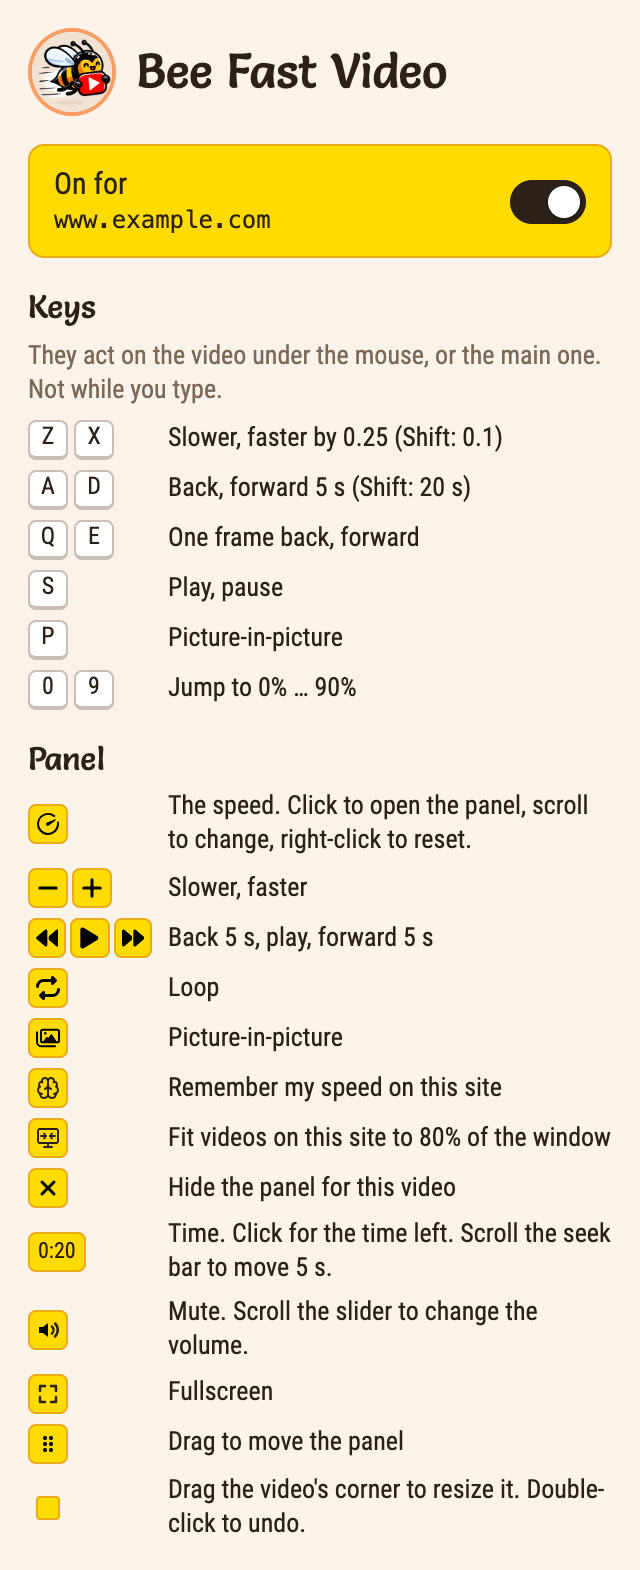
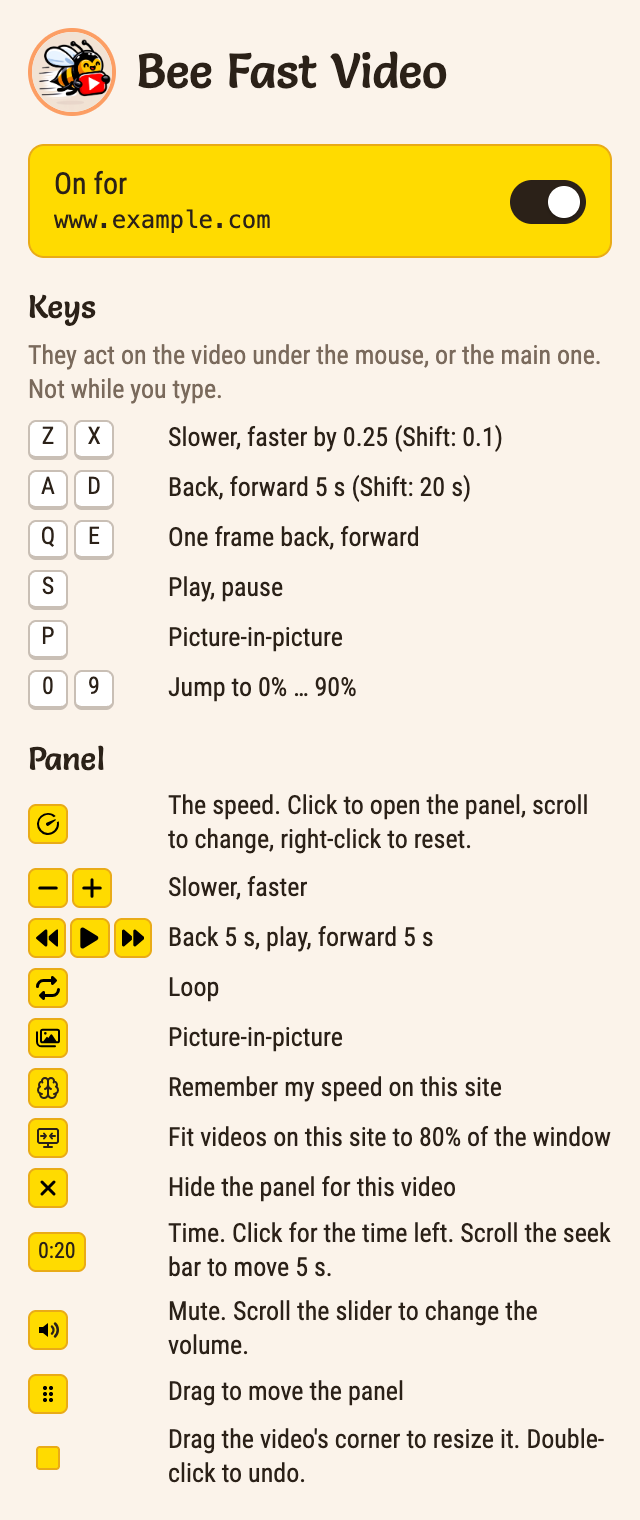
Remove the panel's fullscreen button
When the <video> itself is fullscreen, Chrome doesn't allow clicks on
anything outside it, and a video can't hold the panel. So fullscreen
started from our button left the panel visible but unclickable. Sites
make their own player fullscreen, where the panel moves inside and
keeps working, so the site's button is the better one to use.

- Removed the button, its state, toggleFullscreen and the two icons.
  The panel still re-measures its position on fullscreen changes.
- Popup: fullscreen row removed. README explains why there's no button.
  Manifest description no longer mentions fullscreen.
- The bare-video fullscreen test now uses a page button
  (#video-fullscreen in player.html), like the browser's own control.
- Screenshots retaken.

Checked: npm run check, 39 unit tests, 30 browser tests plus 1 expected
failure.

Changed region(s): [[0.0312, 0.0, 0.9688, 0.9895], [0.2188, 0.0309, 0.5, 0.0618], [0.5312, 0.0309, 0.6875, 0.0618]]

diff --git a/entrypoints/content/controller.tsx b/entrypoints/content/controller.tsx
@@ -3,10 +3,8 @@ import { createStore, produce } from "solid-js/store"
 import {
   BackwardIcon,
   BrainIcon,
-  ExitFullscreenIcon,
   FitScreenIcon,
   ForwardIcon,
-  FullscreenIcon,
   GripIcon,
   MutedIcon,
   PauseIcon,
@@ -82,7 +80,6 @@ export const Controller = (props: Props) => {
     isMuted: props.videoEl().muted,
     // Whether the time label shows the time until the end instead of the elapsed time.
     showRemainingTime: false,
-    isFullscreen: false,
     // Offset of the widget from its default position (the video's top-left corner), set by dragging the grip.
     dragOffset: { x: 0, y: 0 },
     // Page coordinates of the resize handle, at the video's bottom-right corner.
@@ -202,11 +199,8 @@ export const Controller = (props: Props) => {
     }
     videoEl.addEventListener("volumechange", onVolumeChange)
 
-    const onFullscreenChange = () => {
-      setState("isFullscreen", videoEl.ownerDocument.fullscreenElement === videoEl)
-      // The video and the host (see `followFullscreen`) both move.
-      requestAnimationFrame(updatePosition)
-    }
+    // In the site's fullscreen, the video and the host (see `followFullscreen`) both move.
+    const onFullscreenChange = () => requestAnimationFrame(updatePosition)
     videoEl.ownerDocument.addEventListener("fullscreenchange", onFullscreenChange)
 
     const updatePosition = () => {
@@ -667,14 +661,6 @@ export const Controller = (props: Props) => {
                   state.videoEl.muted = false
                 }}
               />
-              <button
-                type="button"
-                class="control"
-                title={state.isFullscreen ? "Exit fullscreen" : "Fullscreen"}
-                onClick={() => toggleFullscreen(state.videoEl)}
-              >
-                {state.isFullscreen ? <ExitFullscreenIcon /> : <FullscreenIcon />}
-              </button>
             </div>
           </Show>
         </div>
@@ -691,14 +677,6 @@ export const Controller = (props: Props) => {
       </Show>
     </Show>
   )
-}
-
-function toggleFullscreen(videoEl: HTMLVideoElement) {
-  if (videoEl.ownerDocument.fullscreenElement === videoEl) {
-    videoEl.ownerDocument.exitFullscreen().catch(() => console.log("bee-fast-video:", "Could not exit fullscreen"))
-  } else {
-    videoEl.requestFullscreen().catch(() => console.log("bee-fast-video:", "Could not enter fullscreen", videoEl))
-  }
 }
 
 function getControllerPosition(videoEl: HTMLVideoElement): { top: number; left: number } {

diff --git a/e2e/fullscreen.test.ts b/e2e/fullscreen.test.ts
@@ -1,15 +1,6 @@
 import type { Browser, Page } from "puppeteer-core"
 import { afterAll, beforeAll, beforeEach, describe, expect, it } from "vitest"
-import {
-  boxOf,
-  clickInPanel,
-  launchBrowser,
-  openPage,
-  openPanel,
-  sleep,
-  startServer,
-  waitForVideoReady,
-} from "./harness"
+import { boxOf, launchBrowser, openPage, sleep, startServer, waitForVideoReady } from "./harness"
 
 let server: Awaited<ReturnType<typeof startServer>>
 let browser: Browser
@@ -66,8 +57,7 @@ describe("fullscreen", () => {
 
   // Chrome only lets you click inside the fullscreen element, and a `<video>` can't hold the panel (see `host.ts`).
   it("shows the panel, unclickable, and keeps shortcuts working when the video itself is fullscreen", async () => {
-    await openPanel(page)
-    await clickInPanel(page, '[title="Fullscreen"]')
+    await page.click("#video-fullscreen")
     await page.waitForFunction(() => document.fullscreenElement?.tagName === "VIDEO")
     const isShownOnTop = await page.evaluate(() =>
       document.querySelector("bee-fast-video-root")?.matches(":popover-open"),

diff --git a/e2e/pages/player.html b/e2e/pages/player.html
@@ -19,12 +19,17 @@
   </div>
   <input id="text" placeholder="Type here" />
   <button id="site-fullscreen" type="button">Site fullscreen</button>
+  <button id="video-fullscreen" type="button">Video fullscreen</button>
   <div id="spacer"></div>
   <script>
     // Like players that keep key presses to themselves.
     document.getElementById("player").addEventListener("keydown", (event) => event.stopPropagation())
     document.getElementById("site-fullscreen").addEventListener("click", () => {
       document.getElementById("player").requestFullscreen()
+    })
+    // Like the browser's own fullscreen button, or sites that make the video itself fullscreen.
+    document.getElementById("video-fullscreen").addEventListener("click", () => {
+      document.querySelector("video").requestFullscreen()
     })
   </script>
 </body>

diff --git a/entrypoints/popup/Popup.tsx b/entrypoints/popup/Popup.tsx
@@ -4,7 +4,6 @@ import {
   BrainIcon,
   FitScreenIcon,
   ForwardIcon,
-  FullscreenIcon,
   GripIcon,
   PictureInPictureIcon,
   PlayIcon,
@@ -43,7 +42,6 @@ const PANEL: Array<{ icons: () => JSX.Element; action: string }> = [
     action: "Time. Click for the time left. Scroll the seek bar to move 5 s.",
   },
   { icons: () => <VolumeIcon />, action: "Mute. Scroll the slider to change the volume." },
-  { icons: () => <FullscreenIcon />, action: "Fullscreen" },
   { icons: () => <GripIcon />, action: "Drag to move the panel" },
   { icons: () => <span class="handle" />, action: "Drag the video's corner to resize it. Double-click to undo." },
 ]

diff --git a/assets/control-icons.tsx b/assets/control-icons.tsx
@@ -107,22 +107,6 @@ export function MutedIcon() {
   )
 }
 
-export function FullscreenIcon() {
-  return (
-    <svg aria-hidden="true" xmlns="http://www.w3.org/2000/svg" viewBox="0 0 24 24">
-      <path {...strokeProps} d="M4 9V4h5M15 4h5v5M20 15v5h-5M9 20H4v-5" />
-    </svg>
-  )
-}
-
-export function ExitFullscreenIcon() {
-  return (
-    <svg aria-hidden="true" xmlns="http://www.w3.org/2000/svg" viewBox="0 0 24 24">
-      <path {...strokeProps} d="M9 4v5H4M15 4v5h5M20 15h-5v5M4 15h5v5" />
-    </svg>
-  )
-}
-
 // From Lucide (https://lucide.dev/icons/brain, ISC license).
 export function BrainIcon() {
   return (

diff --git a/README.md b/README.md
@@ -20,7 +20,7 @@ Click the speed to open the full panel:
 - Seek: back (`A`) and forward (`D`) by 5 seconds, or by 20 seconds with `Shift`. Keys `0`–`9` jump to 0%–90% of the video, like on YouTube. Scroll over the seek bar to move 5 seconds at a time.
 - Play and pause (`S`).
 - Step one frame back (`Q`) or forward (`E`). This pauses the video.
-- Seek bar, time, volume, mute and fullscreen. These work even when the site covers its video so that the browser's own controls can't be reached. Click the time to switch between time played and time left. Scroll over the volume to change it.
+- Seek bar, time, volume and mute. These work even when the site covers its video so that the browser's own controls can't be reached. Click the time to switch between time played and time left. Scroll over the volume to change it.
 - Loop.
 - Picture-in-picture (`P`). The button is greyed out, with a tooltip saying why, when the site or browser doesn't allow it.
 - Drag the panel anywhere by its grip. It goes back to its place once the video scrolls out of view.
@@ -30,7 +30,7 @@ Click the speed to open the full panel:
 - Hide the panel for one video. It comes back when the page reloads.
 - Turn the extension off for a site, e.g. for video calls (in the popup).
 
-The panel stays on top of the page and works in fullscreen when the site makes its player fullscreen, which is what most sites do. When the `<video>` itself is fullscreen (the browser's own fullscreen button, or ours), the panel is shown and shortcuts work, but it can't be clicked: Chrome doesn't allow clicks on anything outside a fullscreen element, and a video can't hold other elements.
+The panel stays on top of the page and works in fullscreen when the site makes its player fullscreen, which is what most sites do. When the `<video>` itself is fullscreen (e.g. with the browser's own fullscreen button), the panel is shown and shortcuts work, but it can't be clicked: Chrome doesn't allow clicks on anything outside a fullscreen element, and a video can't hold other elements. That's also why the panel has no fullscreen button: use the site's.
 
 The popup lists all keys and buttons:
 
